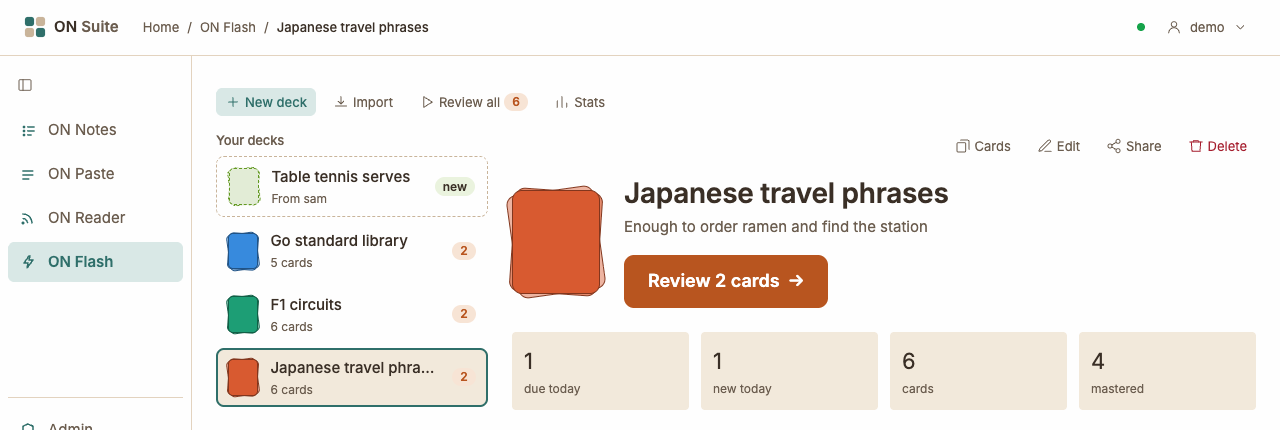
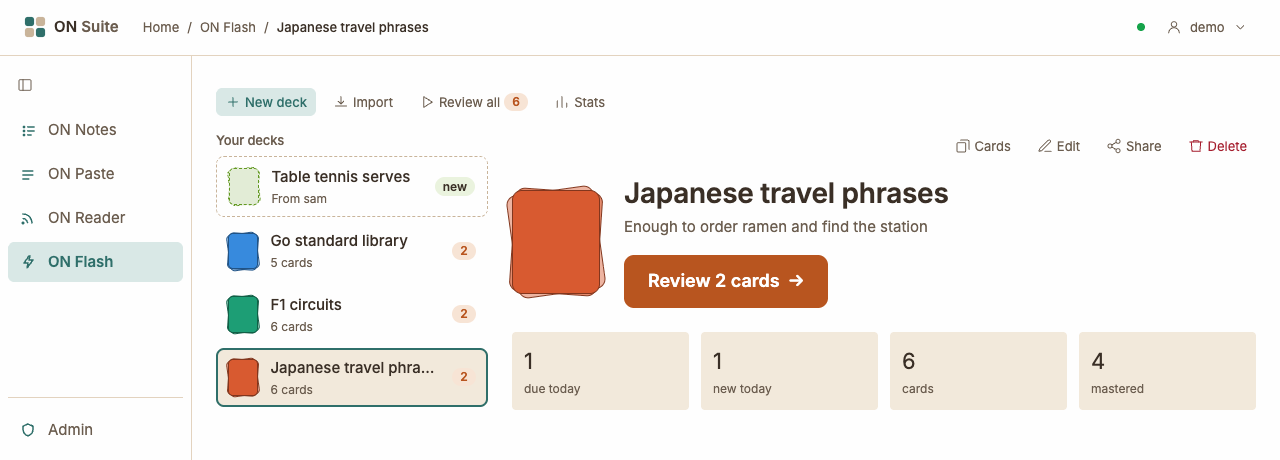
docs: tidy the ON Flash guide's export note, import example, Space key and home shot (#308)

diff --git a/docs/screenshots/capture/shots.go b/docs/screenshots/capture/shots.go
@@ -52,7 +52,7 @@ var shots = []shot{
 	// docs/user/flash.md
 	// Nothing here grades a card or answers sam's pending gift: the review
 	// shot only turns the card over, so due counts and stats stay as seeded.
-	{Name: "docs/user/images/flash-home.png", URL: "/flash/1", Height: 430},
+	{Name: "docs/user/images/flash-home.png", URL: "/flash/1", Height: 460},
 	{Name: "docs/user/images/flash-cards.png", URL: "/flash/2/cards/", Height: 520},
 	{Name: "docs/user/images/flash-editor.png", URL: "/flash/2/cards/new", Height: 675, Setup: `
 		document.getElementById('card-type-new-cloze').checked = true;

diff --git a/docs/user/flash.md b/docs/user/flash.md
@@ -306,6 +306,8 @@ go from cards written by an AI chat, or by hand.
 
 ![The Import a deck page, with three numbered steps: Copy the prompt, Ask your AI, and Paste the answer below](images/flash-import.png)
 
+ON Flash doesn't have a way to export your decks yet.
+
 ### With an AI chat
 
 ON Flash has a ready-made prompt: a message that tells an AI exactly how to
@@ -329,7 +331,7 @@ card with **Edit card**.
 ### Writing it by hand
 
 You can write the cards yourself in a simple format instead. Click
-**Writing it by hand?** for an example. It looks like this:
+**Writing it by hand?** to see the format in the app. Here's an example:
 
 ```text
 # Planets
@@ -381,8 +383,6 @@ can fix it. For example:
 - A message starting with **Card 3:** — something is wrong with that card,
   such as a question and answer card without a back.
 
-ON Flash doesn't have a way to export your decks yet.
-
 ## Your stats
 
 Click **Stats** in the toolbar to see how your studying is going.
@@ -414,7 +414,7 @@ keys on the buttons, and a card's page lists its keys under the card.
 
 | Key | What it does |
 |-----|--------------|
-| `Space` | Review: turn the card over to show the answer. Card page: turn the card over or back |
+| `Space` | Review: turn the card over to show the answer. Card page: turn the card over |
 | `1` | Review: grade the card **Forgot** (once the answer is showing) |
 | `2` | Review: grade the card **Hard** (once the answer is showing) |
 | `3` | Review: grade the card **Got it** (once the answer is showing) |
